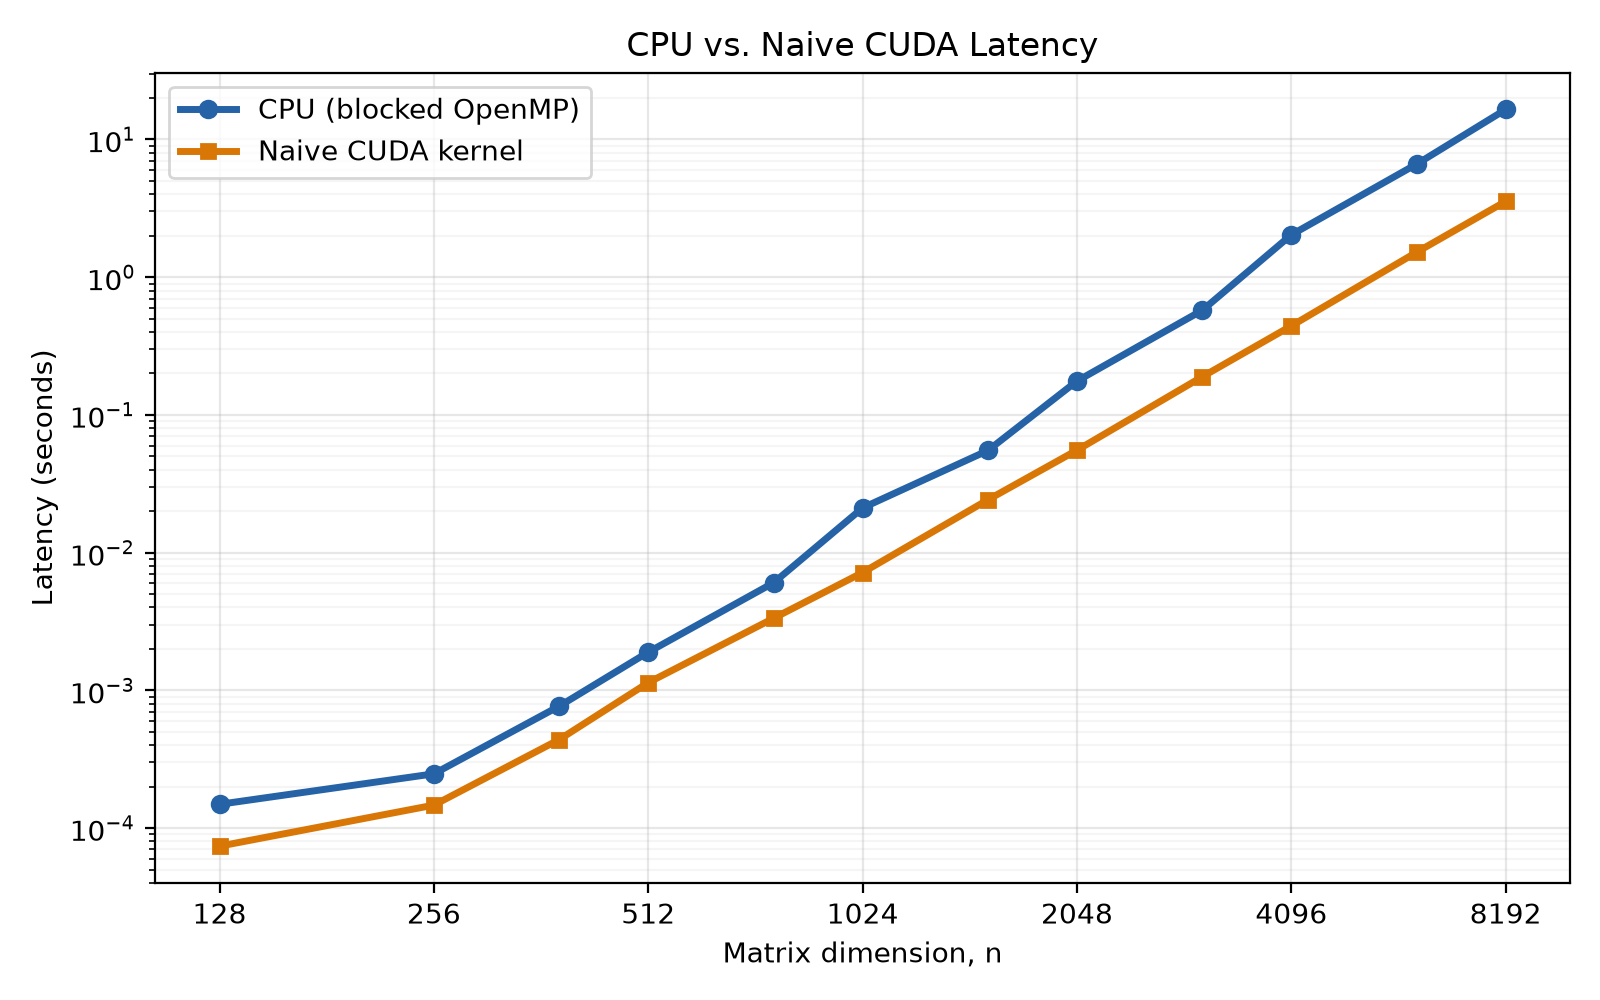
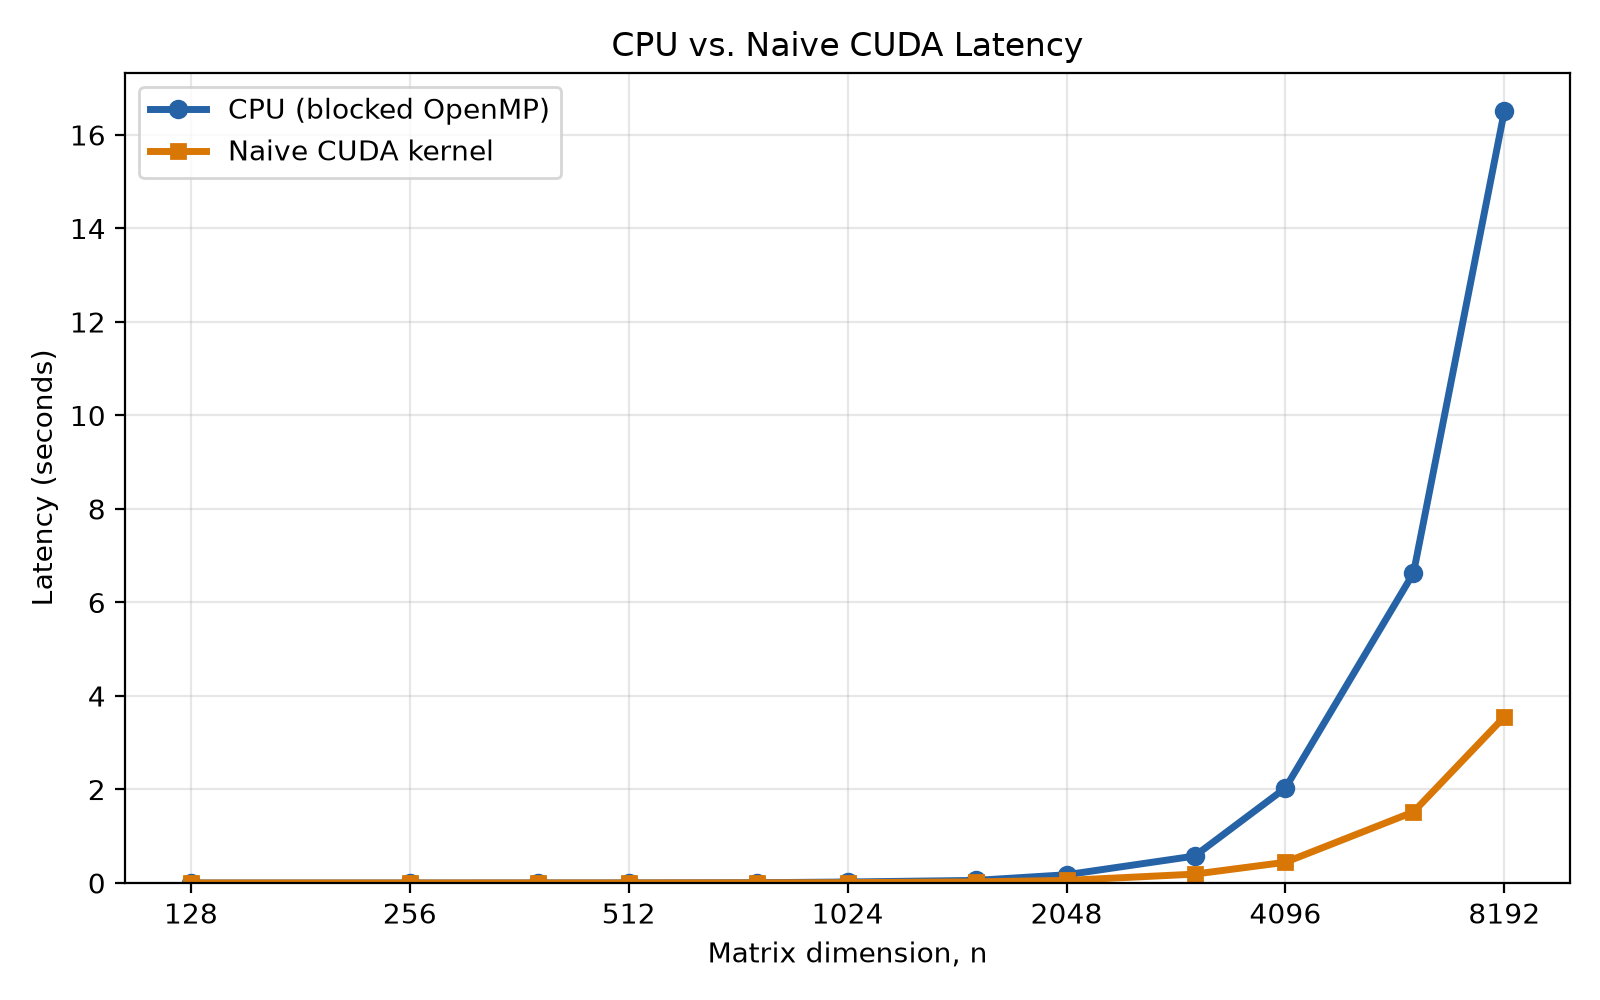
Use linear latency axes

diff --git a/src/cs4630/plots.py b/src/cs4630/plots.py
@@ -32,14 +32,13 @@ def load_results(benchmark):
 def style_latency_axis(axis, title):
     """Apply shared formatting to a latency plot."""
     axis.set_xscale("log", base=2)
-    axis.set_yscale("log")
+    axis.set_ylim(bottom=0)
     axis.set_xlabel("Matrix dimension, n")
     axis.set_ylabel("Latency (seconds)")
     axis.set_title(title)
     axis.set_xticks([128, 256, 512, 1024, 2048, 4096, 8192])
     axis.xaxis.set_major_formatter(ScalarFormatter())
     axis.grid(True, which="major", alpha=0.3)
-    axis.grid(True, which="minor", axis="y", alpha=0.12)
     axis.legend()
 
 
